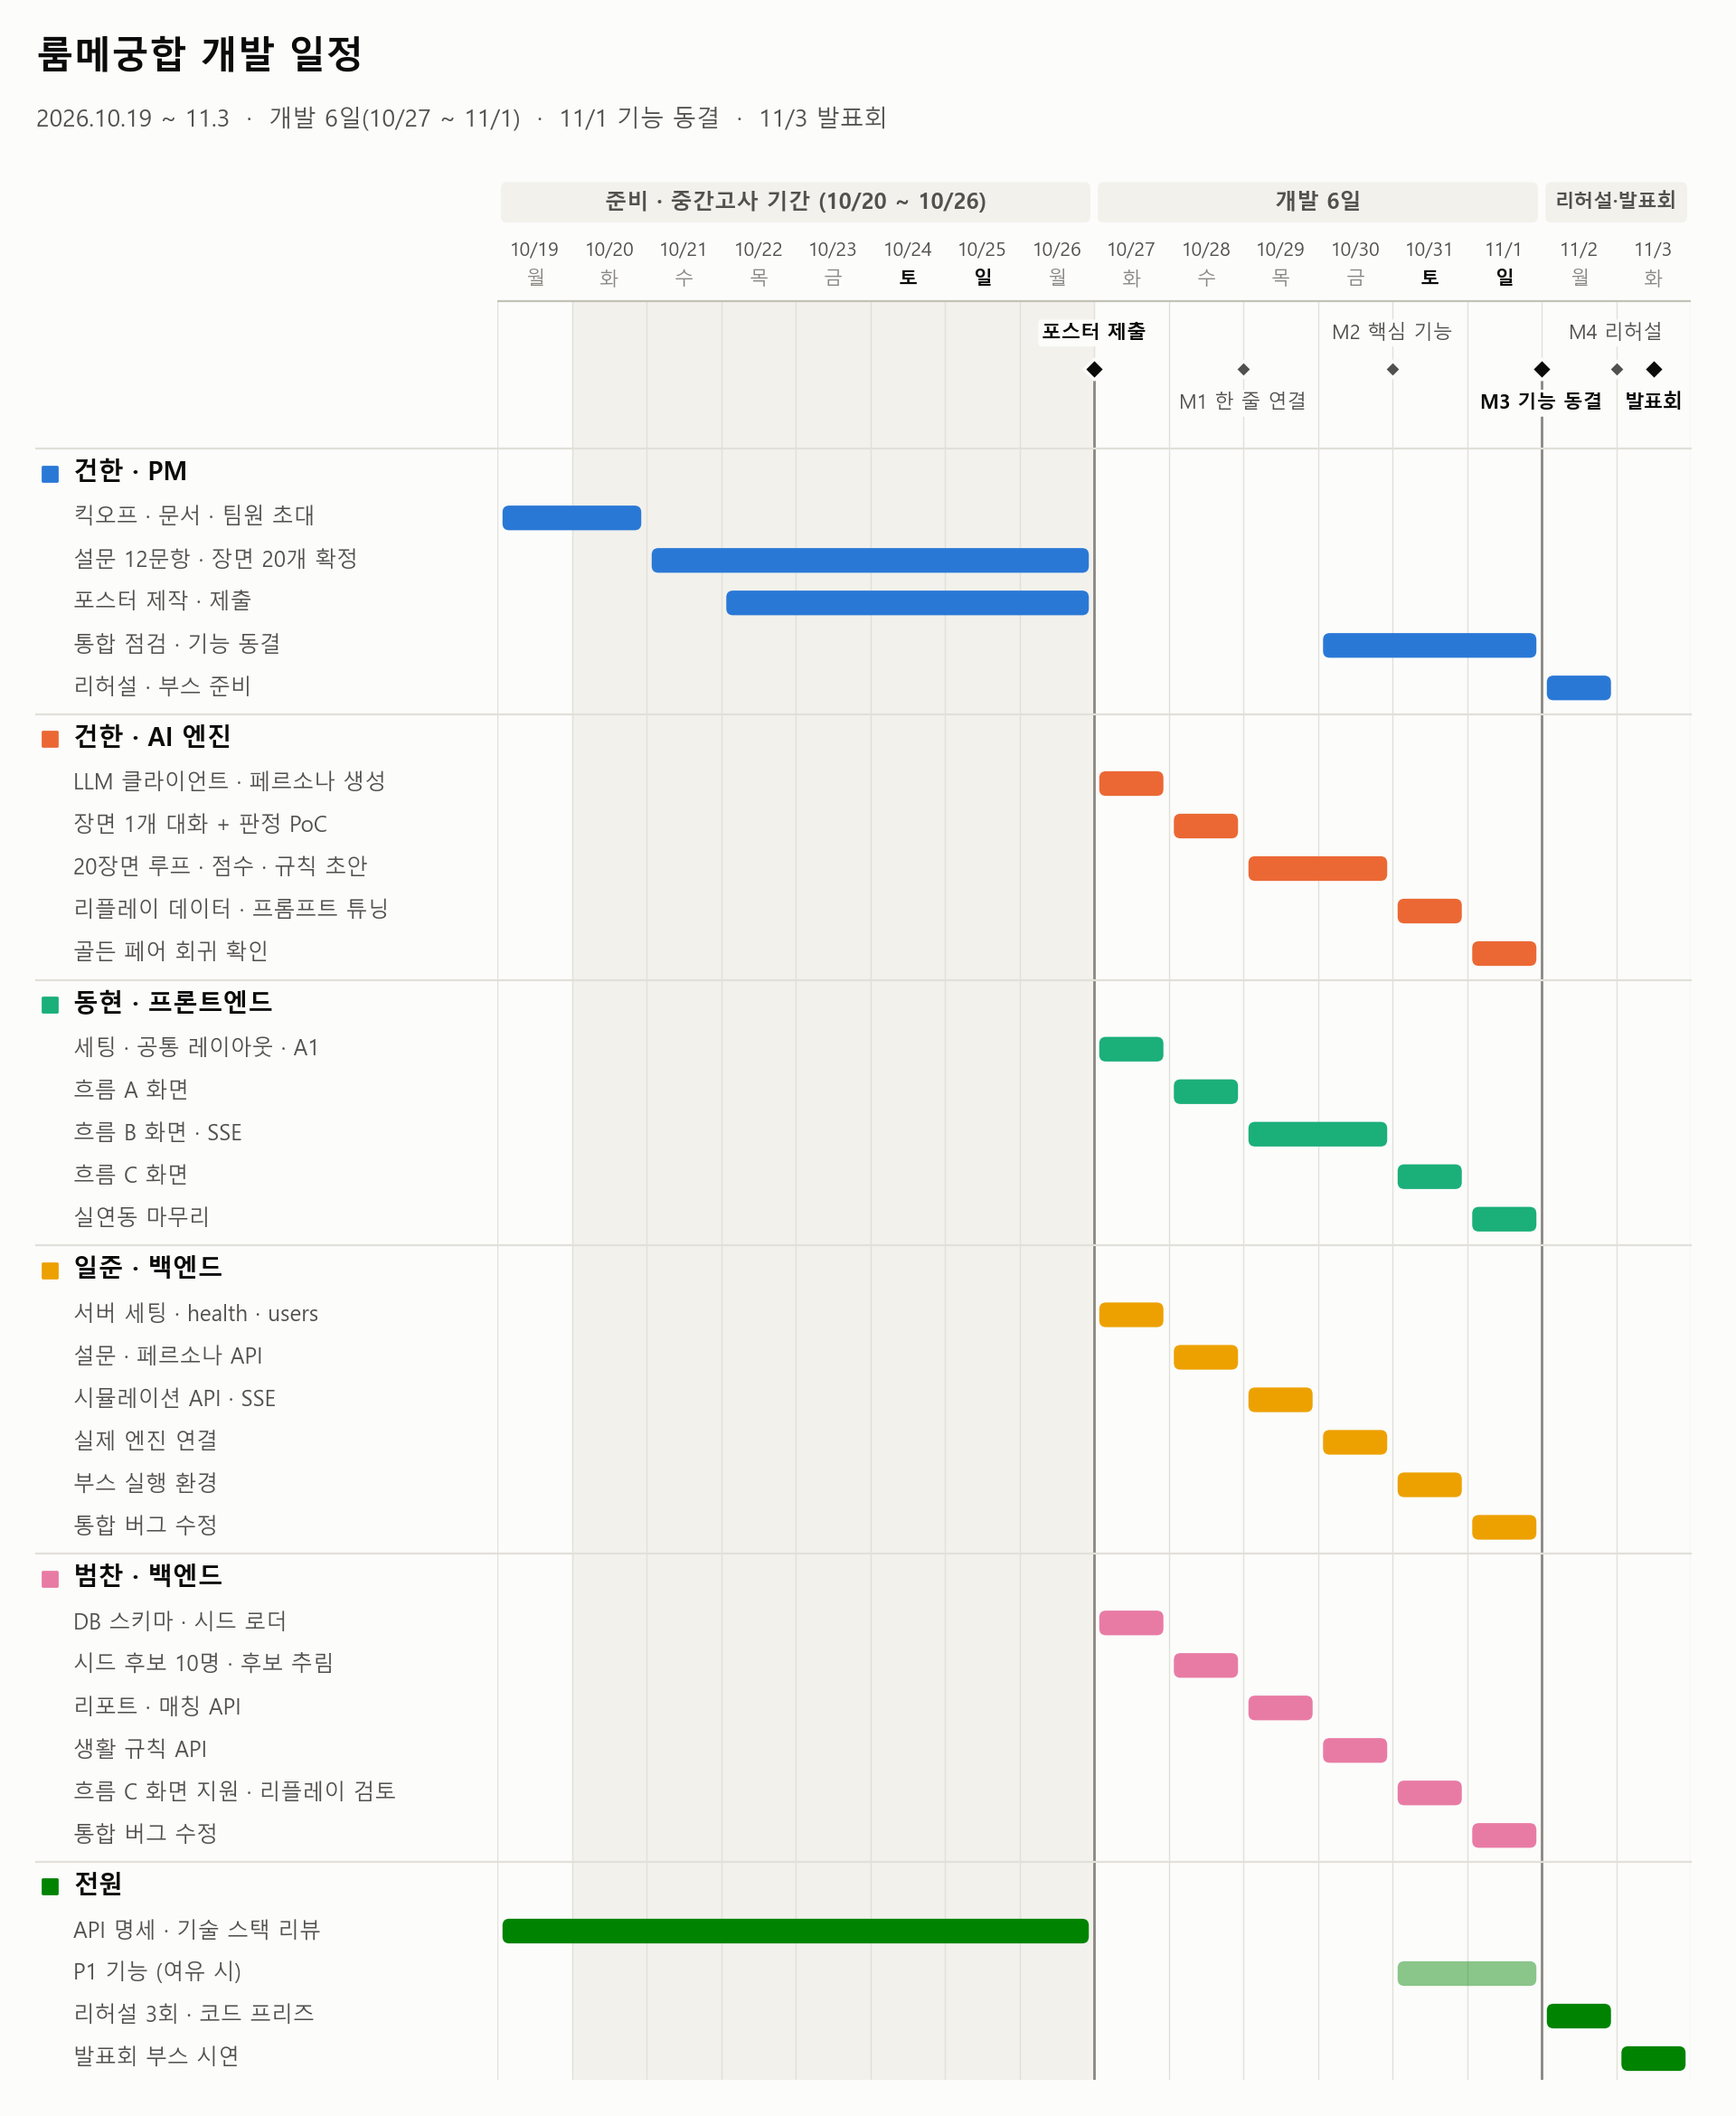
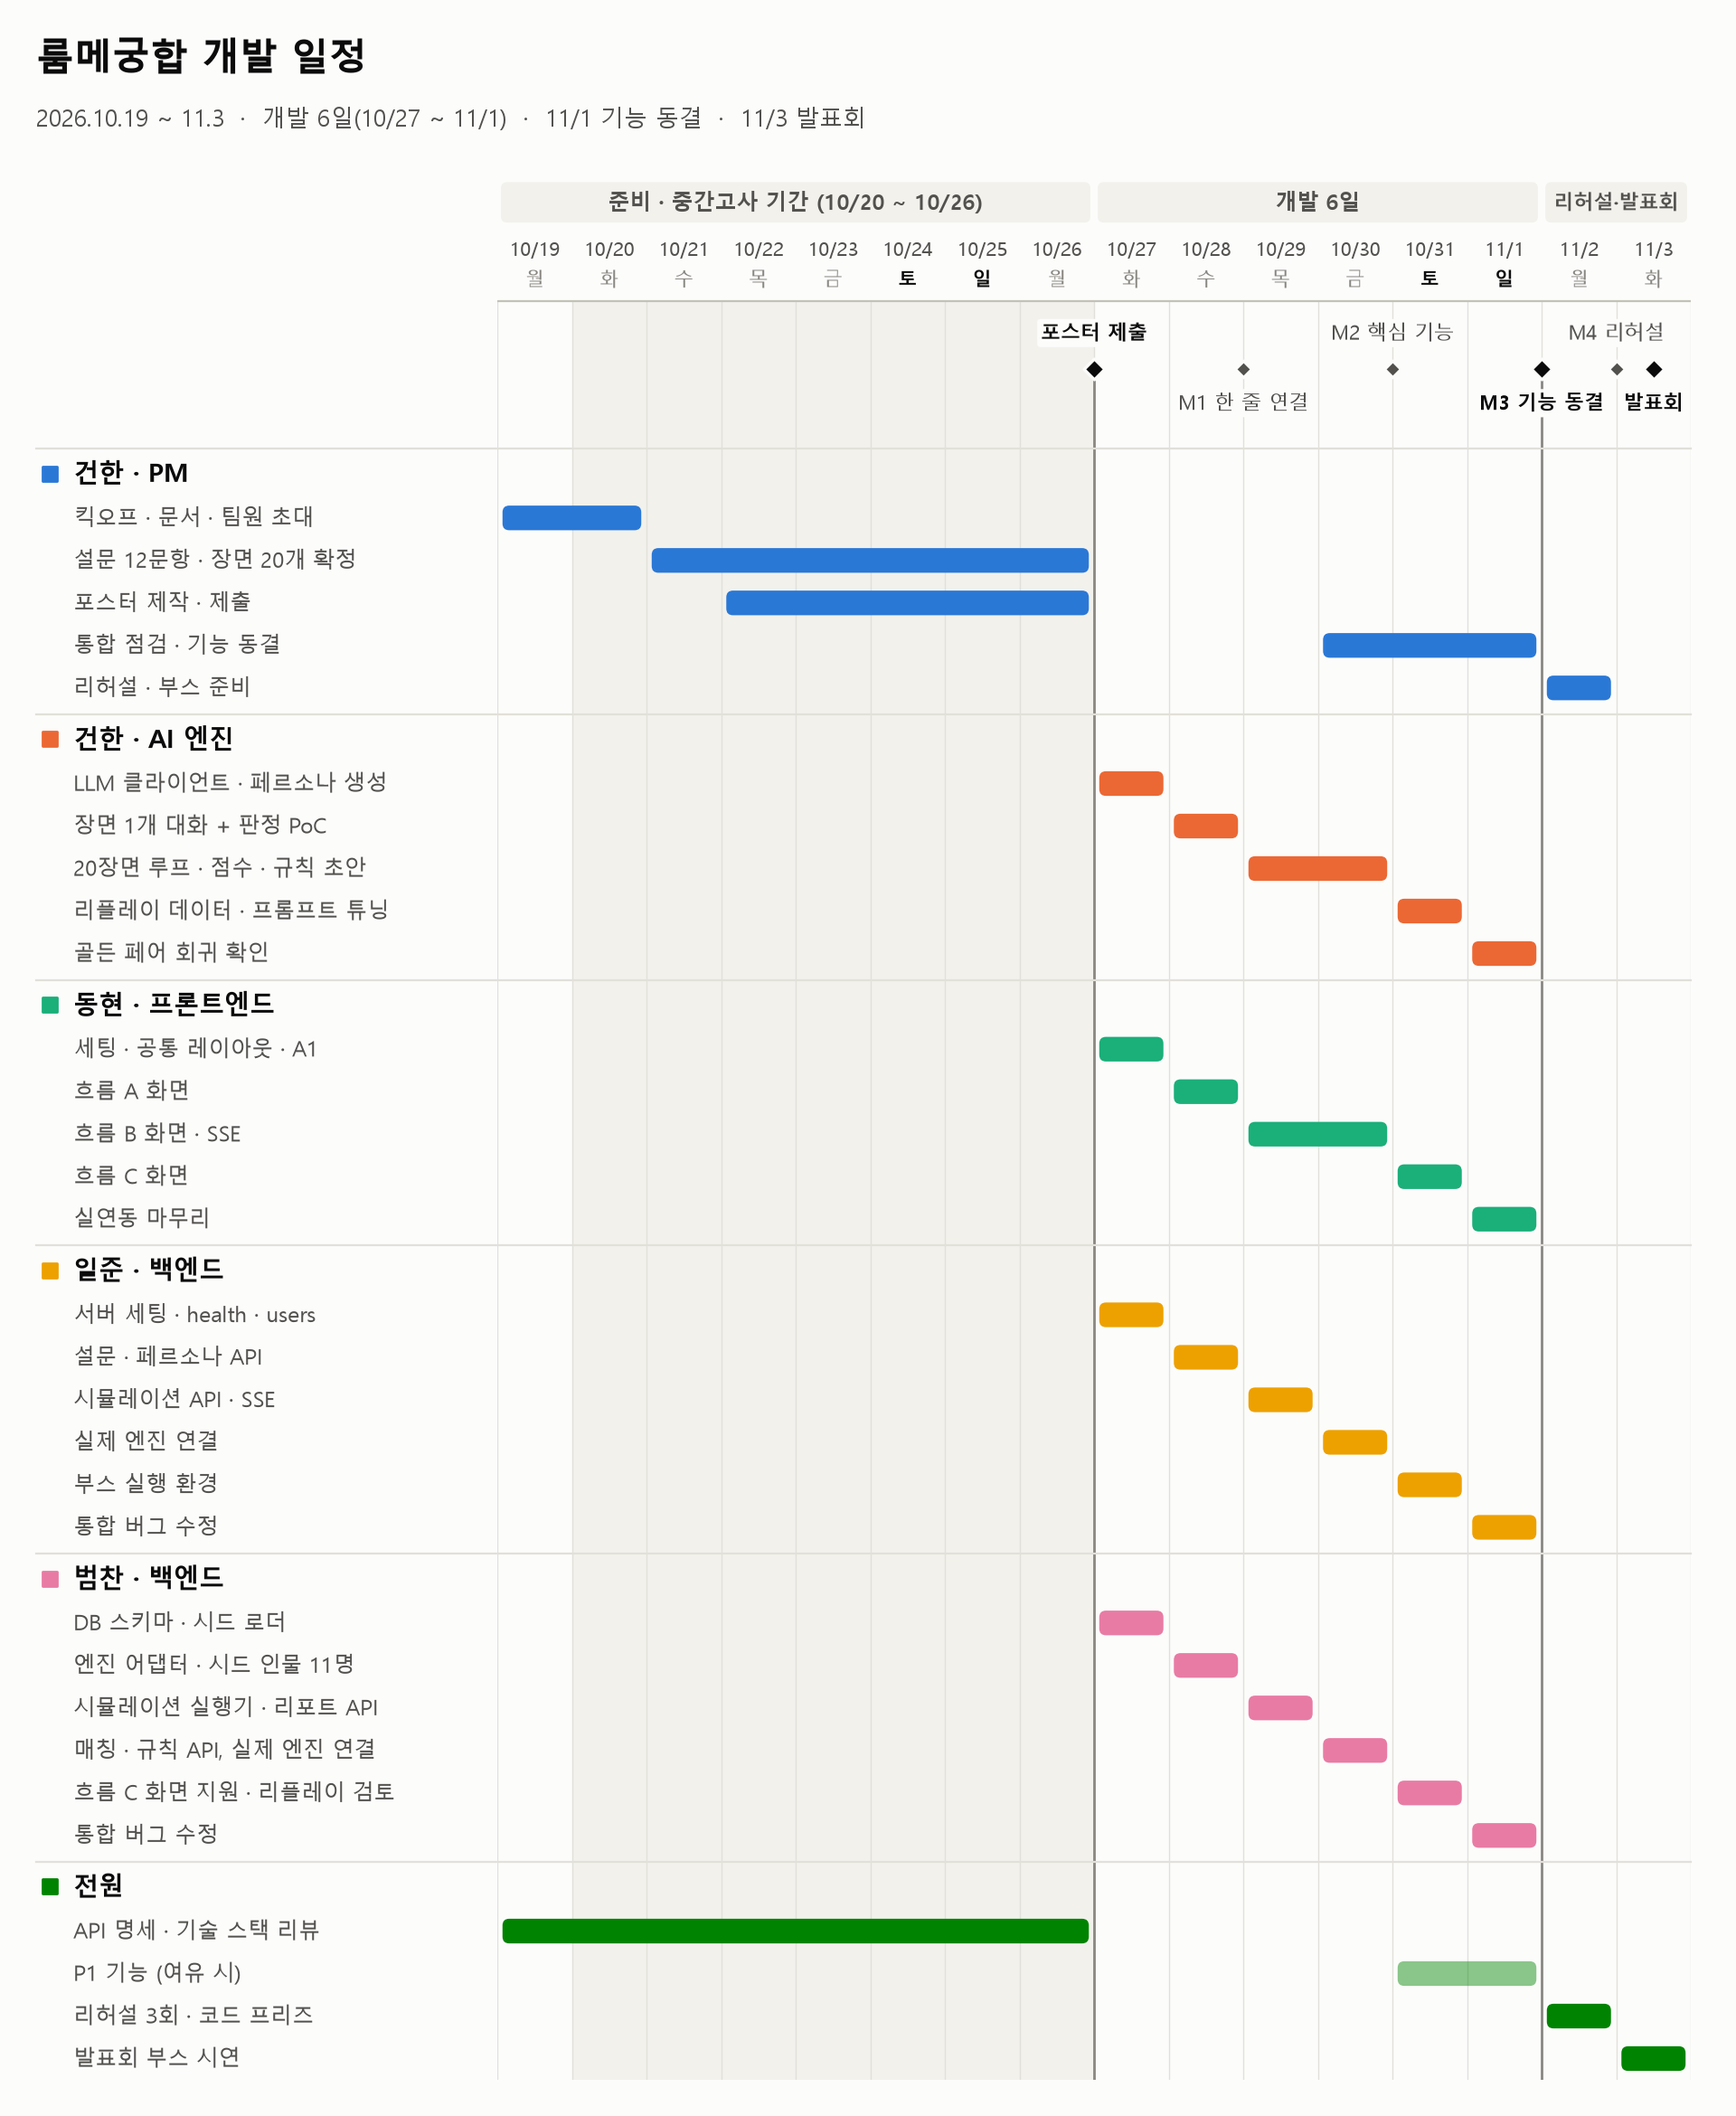
docs: 10/28 백엔드 역할 변경을 PRD·API·일정·협업 문서에 반영
- PRD 13.3 분담 표 · 13.4 엔진 연결 페어 · 15 오픈 이슈 갱신
- API.md 후보 추림 담당 일준, ENGINE_IMPL 환경변수 · 임시 가짜 엔진 안내 추가
- SCHEDULE 10/28 ~ 10/30 범찬 칸과 간트 차트 갱신 (일준 칸은 원문 유지)
- CONTRIBUTING engine/ 리뷰어 범찬

diff --git a/docs/scripts/gantt.py b/docs/scripts/gantt.py
@@ -54,9 +54,9 @@ GROUPS = [
     ]),
     ("범찬 · 백엔드", "#e87ba4", [
         ("DB 스키마 · 시드 로더", 8, 8, False),
-        ("시드 후보 10명 · 후보 추림", 9, 9, False),
-        ("리포트 · 매칭 API", 10, 10, False),
-        ("생활 규칙 API", 11, 11, False),
+        ("엔진 어댑터 · 시드 인물 11명", 9, 9, False),
+        ("시뮬레이션 실행기 · 리포트 API", 10, 10, False),
+        ("매칭 · 규칙 API, 실제 엔진 연결", 11, 11, False),
         ("흐름 C 화면 지원 · 리플레이 검토", 12, 12, False),
         ("통합 버그 수정", 13, 13, False),
     ]),

diff --git a/docs/PRD.md b/docs/PRD.md
@@ -683,12 +683,14 @@ flowchart LR
 | **3. 백엔드 · 데이터** | 일준 · 범찬 | API 서버, DB, 후보 1차 추림, 매칭 · 규칙 로직, 시드 데이터, 엔진 연동, 실행 환경 | P0 API 15개, 시드 후보 10명, 로컬 실행 스크립트 |
 | **4. AI 시뮬레이션 엔진** | 건한 | LLM 클라이언트, 페르소나 생성, 에이전트 대화 루프, 판정자, 점수, 규칙 초안, 리플레이 데이터 | 엔진 모듈(CLI 실행 가능), 프롬프트 세트, 리플레이 데이터 |
 
-### 13.3 백엔드 분담 (제안 · 일준과 범찬이 조정)
+### 13.3 백엔드 분담 (10/28 일준 · 범찬 협의로 변경)
 
 | 담당 | 업무 | API |
 | --- | --- | --- |
-| 일준 | 서버 세팅 · 공통 규칙, 사용자 · 설문 · 페르소나, 시뮬레이션 · SSE, 엔진 연결, 실행 환경 | `/health` `/users` `/survey` `/personas` `/simulations` (+ `/events`) |
-| 범찬 | DB 스키마 · 시드 로더, 시드 후보 10명, 후보 추림, 리포트, 매칭 · 생활 규칙, 흐름 C 화면 지원 | `/candidates` `/report` `/matches` `/rules` |
+| 일준 | API 서버(서버 세팅 · 공통 규칙), DB, 사용자 · 설문 · 페르소나, 후보 추림, 시뮬레이션 API · SSE, 실행 환경 | `/health` `/users` `/survey` `/personas` `/candidates` `/simulations` (+ `/events`) |
+| 범찬 | 리포트, 매칭 · 생활 규칙, 시드 데이터(시드 인물 11명), 엔진 연결(엔진 어댑터 · 시뮬레이션 실행기), 흐름 C 화면 지원 | `/report` `/matches` `/rules` |
+
+- 변경 전(10/19 제안안): 엔진 연결은 일준, DB 스키마 · 시드 로더 · 후보 추림은 범찬 담당
 
 ### 13.4 건한의 업무 분산
 
@@ -696,7 +698,7 @@ flowchart LR
 - 문서 · 일정 · GitHub 구성은 개발 착수 전(10/19) 완료, 포스터는 10/26까지 마무리
 - 개발 기간(10/27 ~ 11/1)에는 엔진 개발 집중, 기능 테스트는 각자 PR 단계에서 수행
 - 시드 데이터 입력 및 리플레이 데이터 점검은 범찬 지원
-- 엔진 연결(10/30)은 일준과 페어 진행
+- 엔진 연결(10/30)은 범찬과 페어 진행
 
 ---
 
@@ -721,7 +723,7 @@ flowchart LR
 - [x] 역할 배정 — 건한(1 · 4), 동현(2), 일준 · 범찬(3) (10/19)
 - [x] LLM — Claude Haiku 5.5, 교체 가능 구조 (10/19)
 - [ ] 기술 스택 확정 (제안: React + FastAPI) — 동현 · 일준 · 범찬 확인, 10/26
-- [ ] 백엔드 분담 (13.3 제안안) — 일준 · 범찬, 10/26
+- [x] 백엔드 분담 — 일준 · 범찬 협의로 13.3 변경 (10/28)
 - [ ] 설문 12문항 확정 ([부록 A](#부록-a-설문-12문항-초안) 초안) — 건한, 10/26
 - [ ] 생활 장면 20개 배치 확정 ([부록 B](#부록-b-생활-장면-20개-배치-초안) 초안). 기획서 내 친구 초대의 "장면 7" · "7일차" 혼용, 초안은 장면 7(3일차)로 정리 — 건한, 10/26
 - [ ] 팀원 GitHub 아이디 확보 → 저장소 초대 · CODEOWNERS 반영 — 건한

diff --git a/docs/API.md b/docs/API.md
@@ -80,7 +80,7 @@ sequenceDiagram
 | 4 | POST | `/api/personas` | 응답 → 페르소나 생성 | P0 | 일준 | A4 |
 | 5 | GET | `/api/personas/{persona_id}` | 페르소나 조회 | P0 | 일준 | A4 |
 | 6 | PATCH | `/api/personas/{persona_id}` | 꼭 지켜줘 · 괜찮아요 수정 | P0 | 일준 | A4 |
-| 7 | GET | `/api/personas/{persona_id}/candidates` | 후보 3명 | P0 | 범찬 | B1 |
+| 7 | GET | `/api/personas/{persona_id}/candidates` | 후보 3명 | P0 | 일준 | B1 |
 | 8 | POST | `/api/simulations` | 시뮬레이션 시작 | P0 | 일준 | B1 · B2 |
 | 9 | GET | `/api/simulations/{simulation_id}` | 상태 · 진행률 | P0 | 일준 | B1 · B2 |
 | 10 | GET | `/api/simulations/{simulation_id}/events` | 실시간 이벤트 (SSE) | P0 | 일준 | B2 |
@@ -676,7 +676,8 @@ export default defineConfig({
 ### 8.2 mock 기반 선행 개발
 
 - 프론트엔드: 본 문서 JSON 예시 기반 mock 응답으로 화면 선행 개발 (`VITE_USE_MOCK=true`)
-- 백엔드: 엔진 완성 전까지 가짜 엔진 사용
+- 백엔드: 엔진 완성 전까지 가짜 엔진 사용. `engine/fake.py` 도착 전에는 백엔드 임시 가짜 엔진(`backend/app/fake_engine.py`, LLM 미호출) 사용
+- 백엔드의 엔진 호출은 엔진 어댑터(`backend/app/engine_adapter.py`) 단일 경유
 - 10/28(M1)까지 화면 → API → 가짜 엔진 → DB 한 줄 연결로 통합 문제 조기 발견
 
 ### 8.3 환경변수 (`backend/.env`)
@@ -687,6 +688,7 @@ export default defineConfig({
 | `LLM_PROVIDER` | `anthropic` | 타 API 전환 시 변경 |
 | `LLM_MODEL` | `claude-haiku-5-5` | |
 | `LLM_MAX_CONCURRENCY` | `8` | 동시 LLM 요청 수 상한 |
+| `ENGINE_IMPL` | `fake` | `fake` 백엔드 임시 가짜 엔진(LLM 미호출, 기본값) · `real` `engine` 패키지 |
 | `SIM_MODE` | `agents` | `agents` · `single` · `replay` |
 | `REPLAY_DELAY_MS` | `600` | 리플레이 발화 간격 |
 | `DATABASE_URL` | `sqlite:///./roommate.db` | |

diff --git a/docs/SCHEDULE.md b/docs/SCHEDULE.md
@@ -45,9 +45,9 @@
 | 10/19(월) | 킥오프 · 문서 공유 · 팀원 초대 | API 명세 검토 | API 명세 검토 | API 명세 검토 |
 | 10/20 ~ 10/26 (중간고사) | 설문 · 장면 확정, 10/25 포스터 부가정보, **10/26 포스터 제출** | API 명세 · 기술 스택 리뷰 | API 명세 · 백엔드 분담 리뷰 | API 명세 · 백엔드 분담 리뷰 |
 | 10/27(화) | LLM 클라이언트 · 페르소나 생성 | 세팅 · 공통 레이아웃 · A1 | 서버 세팅 · health · users | DB 스키마 · 시드 로더 |
-| 10/28(수) **M1** | 장면 1개 대화 + 판정 PoC | 흐름 A 화면 | 설문 · 페르소나 API | 시드 후보 10명 · 후보 추림 |
-| 10/29(목) | 20장면 루프 | 흐름 B 화면 (mock) | 시뮬레이션 API · SSE | 리포트 · 매칭 API |
-| 10/30(금) **M2** | 점수 · 규칙 초안, 엔진 연결 페어 | 흐름 B 실연동 | 실제 엔진 연결 | 생활 규칙 API |
+| 10/28(수) **M1** | 장면 1개 대화 + 판정 PoC | 흐름 A 화면 | 설문 · 페르소나 API | 엔진 어댑터 · 임시 가짜 엔진, 시드 인물 11명 |
+| 10/29(목) | 20장면 루프 | 흐름 B 화면 (mock) | 시뮬레이션 API · SSE | 시뮬레이션 실행기 · 리포트 API |
+| 10/30(금) **M2** | 점수 · 규칙 초안, 엔진 연결 페어 | 흐름 B 실연동 | 실제 엔진 연결 | 매칭 · 생활 규칙 API, 실제 엔진 연결 |
 | 10/31(토) | 리플레이 데이터 · 튜닝 | 흐름 C 화면 | 부스 실행 환경 | 흐름 C 화면 지원 · 리플레이 검토 |
 | 11/1(일) **M3** | 골든 페어 확인 · 기능 동결 선언 | 실연동 마무리 | 통합 버그 수정 | 통합 버그 수정 |
 | 11/2(월) **M4** | 리허설 진행 · 부스 준비 | 리허설 | 리허설 | 리허설 |

diff --git a/CONTRIBUTING.md b/CONTRIBUTING.md
@@ -59,7 +59,7 @@ gitGraph
 | --- | --- | --- |
 | `frontend/` | 범찬 | 흐름 C 화면 공동 담당, API 연동 확인 |
 | `backend/` | 일준 ↔ 범찬 상호 | 동일 서버 코드 |
-| `engine/` | 일준 | 엔진 연결 담당 |
+| `engine/` | 범찬 | 엔진 연결 담당 |
 | `docs/API.md` | 동현 + 백엔드 1명 | 프론트 · 백엔드 간 약속 변경 PR |
 | `docs/` `data/` | 건한 | PM |
 
